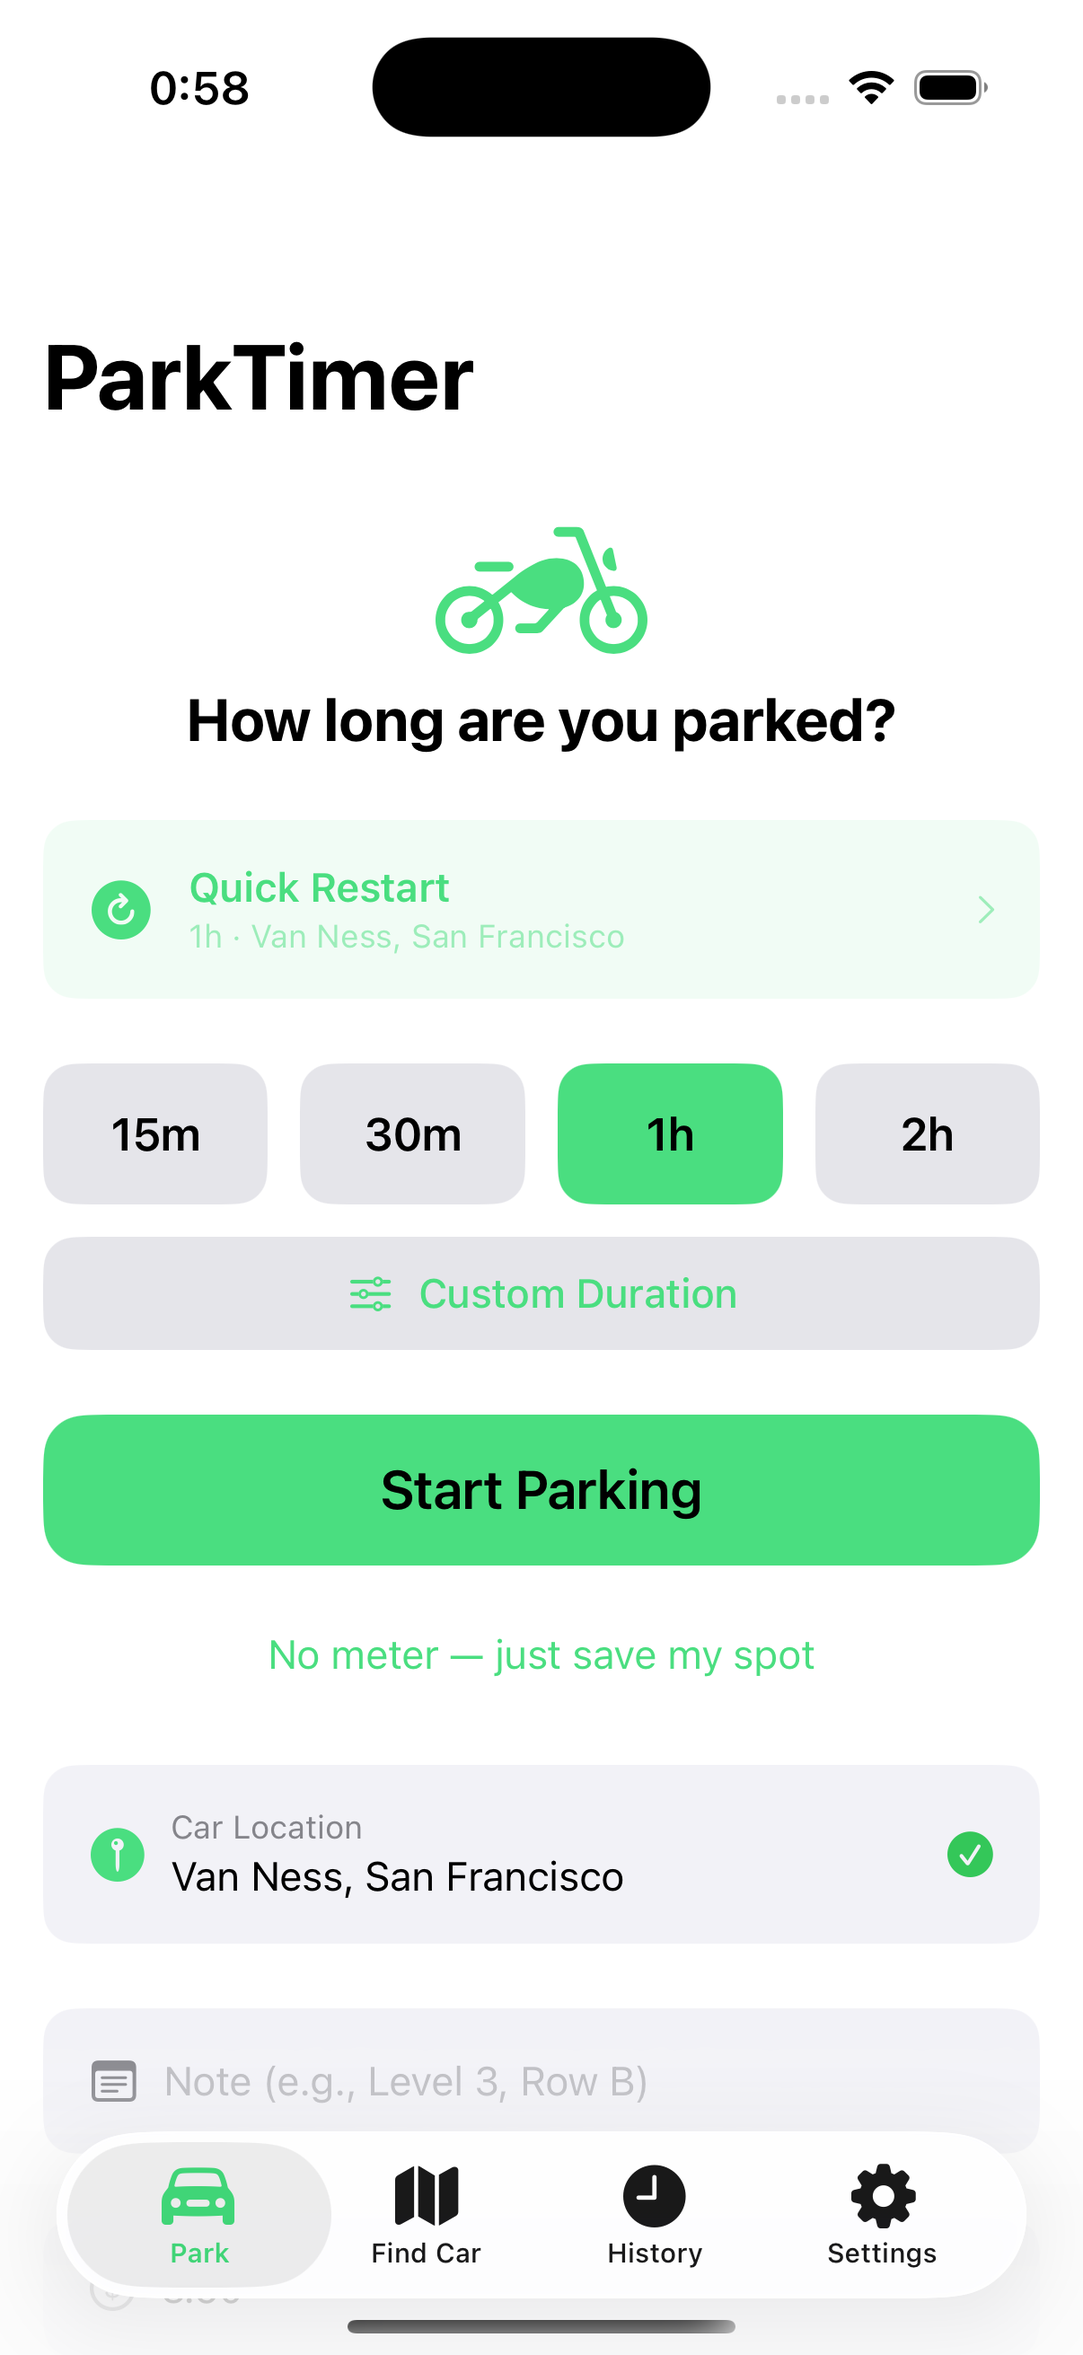
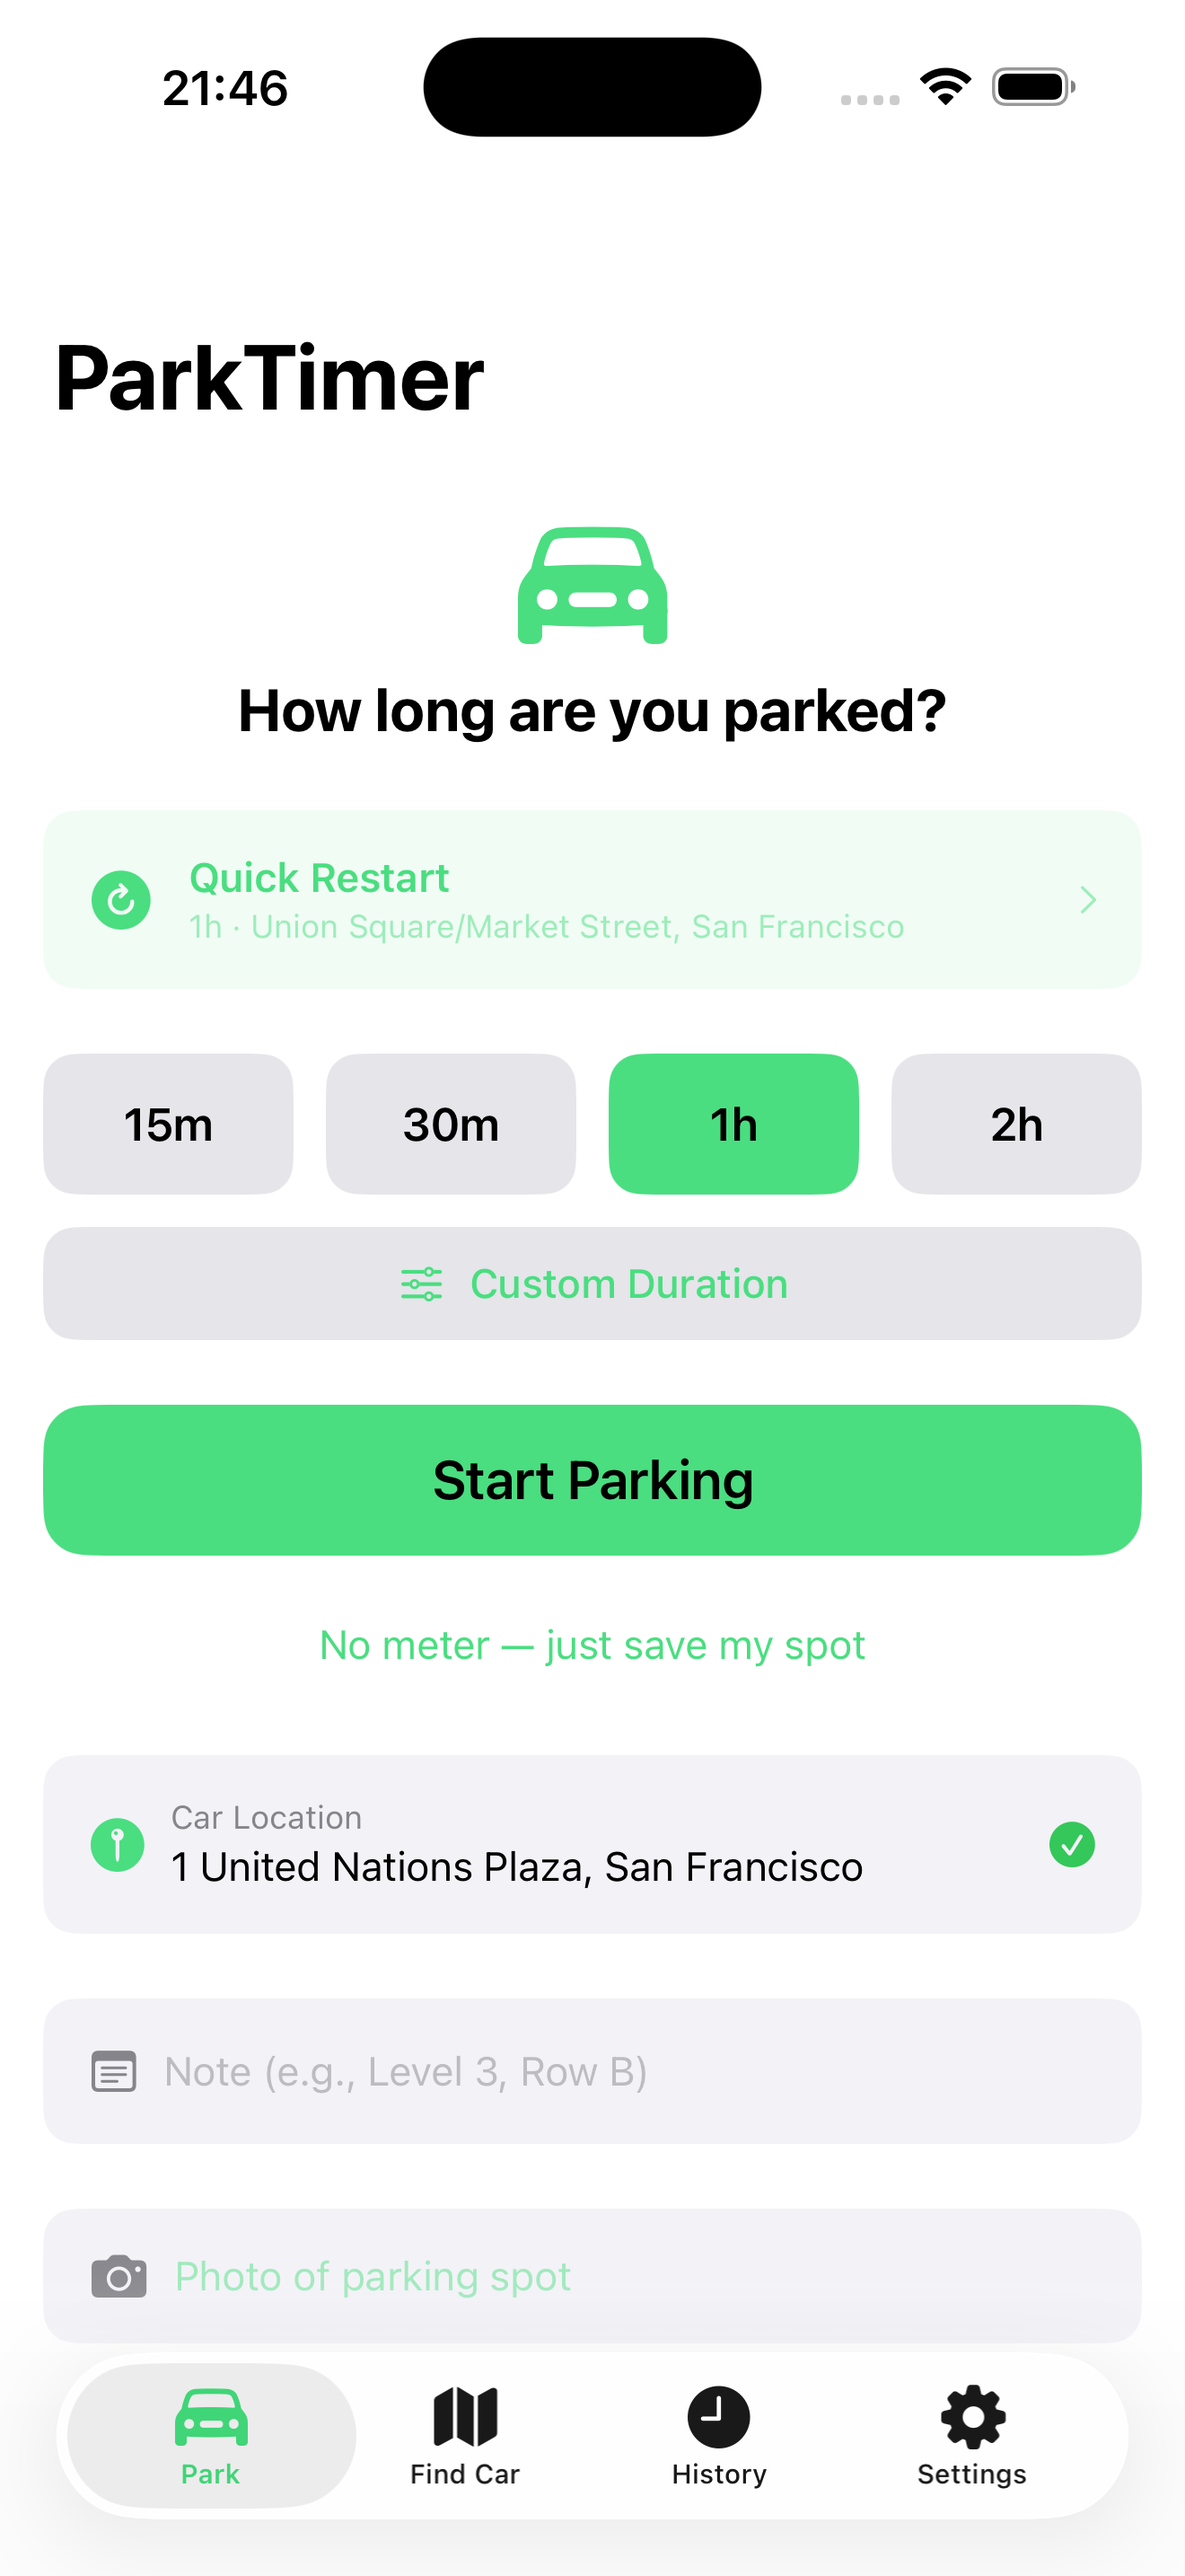
Ship prep: real contact email + 6.9" App Store screenshots
- Privacy policy contact email: parktimer@example.com → shtark285@gmail.com
  (updated in both the inline PrivacyPolicyView and docs/privacy-policy.md).
  Apple review rejects placeholder contact info, so this had to go before
  the first build we submit.

- Regenerate App Store screenshots at 1320×2868 (Apple's 6.9" display
  bucket — iPhone 17/16 Pro Max). Captured on iPhone 17 Pro Max simulator
  via xcrun simctl io booted screenshot, tapping through the UI with
  XcodeBuildMCP. Old screenshots were 1206×2622 (6.1", current 16 Pro /
  15 Pro) which Apple accepts only as optional; the 6.9" set is required.

  01_start     Start screen, 1h selected, Quick Restart card populated
  02_active    Active session with countdown + distance-to-car + Pro tip
  03_findcar   Find Car map with pin, walking distance, directions
  04_history   History with Pro "Unlock Stats" teaser + 1 entry
  05_settings  Settings showing Pro badges + vehicle picker

- .xcodebuildmcp/config.yaml: persisted iPhone 17 Pro Max as default
  simulator so future `simulatorName` defaults use the 6.9" device.

diff --git a/ParkTimer/Views/Settings/SettingsView.swift b/ParkTimer/Views/Settings/SettingsView.swift
@@ -226,7 +226,7 @@ struct PrivacyPolicyView: View {
 
                 section(
                     title: "Contact",
-                    body: "If you have questions about this privacy policy, contact us at parktimer@example.com."
+                    body: "If you have questions about this privacy policy, contact us at shtark285@gmail.com."
                 )
             }
             .padding()

diff --git a/docs/privacy-policy.md b/docs/privacy-policy.md
@@ -57,4 +57,4 @@ If we ever change this policy, we will update this page with a new "Last updated
 
 ## Contact
 
-If you have questions about this privacy policy, contact us at parktimer@example.com.
+If you have questions about this privacy policy, contact us at shtark285@gmail.com.
